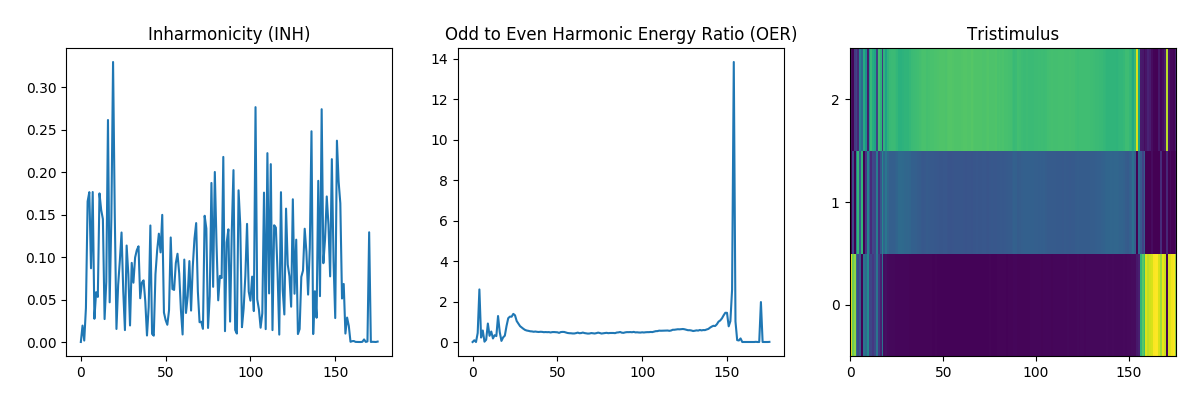
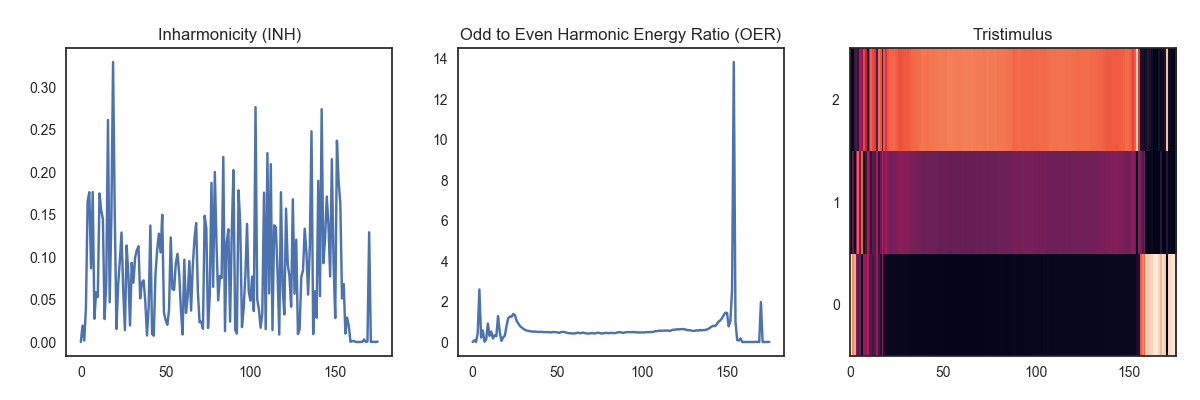
using seaborn in plots

diff --git a/codes/clustering_test.py b/codes/clustering_test.py
@@ -4,8 +4,8 @@ import pathlib
 import time
 
 import essentia.standard as es
+import matplotlib.pyplot as plt
 import numpy as np
-import pylab as pl
 from hdbscan import HDBSCAN
 from sklearn import metrics
 from sklearn.cluster import KMeans
@@ -31,6 +31,7 @@ def main(export=False, plot=False):
     y = []
     filenames = []
     extractor = FeaturesExtractor()
+    embedding = None
 
     start = time.time()
     for file in pathlib.Path('../sounds/testing').iterdir():
@@ -48,7 +49,15 @@ def main(export=False, plot=False):
     y = le.transform(y)
 
     if plot:
-        plot_data(X, y)
+        start = time.time()
+
+        X = X.astype(np.float64)
+        tsne = TSNE(n_components=2, random_state=1994)
+        results = tsne.fit(X)
+        embedding = results.embedding_
+
+        print("Done t-distributed Stochastic Neighbor Embedding in %.3f seconds." % (time.time() - start))
+        plot_data(embedding, y, 'True')
 
     kmeans = KMeans(n_clusters=len(le.classes_))
     gmm = GaussianMixture(n_components=len(le.classes_))
@@ -80,23 +89,39 @@ def main(export=False, plot=False):
 
         if export:
             export_results(labels, filenames, '%s.txt' % algorithm_name)
+        if plot:
+            plot_data(embedding, labels, algorithm_name)
 
     print()
     print_table(report)
 
 
-def plot_data(X, y):
-    start = time.time()
+def plot_data(X, y, title):
+    # x_min, x_max = np.min(X, 0), np.max(X, 0)
+    # X = (X - x_min) / (x_max - x_min)
 
-    X = X.astype(np.float64)
-    tsne = TSNE(n_components=2, random_state=0, init='pca')
-    results = tsne.fit(X)
-    coords = results.embedding_
+    ax = plt.subplot(111)
 
-    print("Done t-distributed Stochastic Neighbor Embedding in %.3f seconds." % (time.time() - start))
+    # ax.scatter(X[:, 0], X[:, 1], marker='o', c=y, cmap=plt.get_cmap('hsv'))
+    ax.scatter(X[:, 0], X[:, 1], marker='o', c=y)
 
-    pl.scatter(coords[:, 0], coords[:, 1], marker='.', c=y)
-    pl.show()
+    # shown_images = np.array([[1., 1.]])  # just something big
+    # for i in range(X.shape[0]):
+    #     dist = np.sum((X[i] - shown_images) ** 2, 1)
+    #     if np.min(dist) < 4e-3:
+    #         # don't show points that are too close
+    #         continue
+    #     shown_images = np.r_[shown_images, [X[i]]]
+    #     imagebox = offsetbox.AnnotationBbox(
+    #         offsetbox.TextArea(y[i]),
+    #         X[i],
+    #         fontsize=5
+    #     )
+    #     ax.add_artist(imagebox)
+
+    plt.xticks([]), plt.yticks([])
+    plt.title(title)
+    plt.show()
 
 
 def print_table(table):

diff --git a/codes/sound_visualizations.py b/codes/sound_visualizations.py
@@ -1,16 +1,20 @@
 import essentia
 import essentia.standard as es
-import matplotlib.pyplot as plt
-from pylab import plot, show, figure
+import pylab as pl
+import seaborn as sns
 
 
 def main():
-    plt.rcParams['figure.figsize'] = (15, 6)
+    sns.set()
 
     audio = es.MonoLoader(filename='../sounds/sheep.wav')()
-    plot(audio)
-    plt.title("Ovis orientalis aries")
-    show()
+
+    fig, ax = pl.subplots(1, 1, figsize=(12, 4))
+    fig.subplots_adjust(left=0.06, right=0.97)
+
+    ax.plot(audio)
+    ax.set_title("Ovis orientalis aries")
+    fig.show()
 
     w = es.Windowing(type='hamming')
     spectrum = es.Spectrum()  # FFT() would return the complex FFT, here we just want the magnitude spectrum
@@ -18,8 +22,9 @@ def main():
     frame = audio[20000: 20000 + 1024]
     spec = spectrum(w(frame))
 
-    fig = figure(figsize=(15, 6))
-    fig.subplots_adjust(left=0.06, right=0.97, bottom=0.07, top=0.93)
+    sns.set_style("white")
+    fig = pl.figure(figsize=(12, 4))
+    fig.subplots_adjust(left=0.07, right=0.97)
 
     ax = fig.add_subplot(1, 2, 1)
     ax.plot(spec[:250])
@@ -36,7 +41,7 @@ def main():
     specs = essentia.array(specs).T
 
     ax = fig.add_subplot(1, 2, 2)
-    ax.imshow(specs[:160, :], aspect='auto', origin='lower', interpolation='none')
+    ax.imshow(specs[:80, :], aspect='auto', origin='lower', interpolation='none')
     ax.set_title('(b)')
 
     fig.show()

diff --git a/codes/features.py b/codes/features.py
@@ -2,6 +2,7 @@ import essentia
 import essentia.standard as es
 import numpy as np
 import pylab as pl
+import seaborn as sns
 from matplotlib import collections as mc
 from matplotlib.ticker import MaxNLocator, FuncFormatter
 
@@ -224,6 +225,9 @@ def plot_mfccs(audio):
 
 
 def main():
+    sns.set()
+    sns.set_style('white')
+
     audio = es.MonoLoader(filename='../sounds/sheep.wav')()
 
     plot_temporal_descriptors(audio)

diff --git a/codes/kmeans_vs_dbscan.py b/codes/kmeans_vs_dbscan.py
@@ -2,8 +2,12 @@ from itertools import cycle, islice
 
 import matplotlib.pyplot as plt
 import numpy as np
+import seaborn as sns
 from sklearn.cluster import KMeans, DBSCAN
 from sklearn.datasets.samples_generator import make_blobs
+
+sns.set()
+sns.set_style('white')
 
 # #############################################################################
 # Generate sample data
